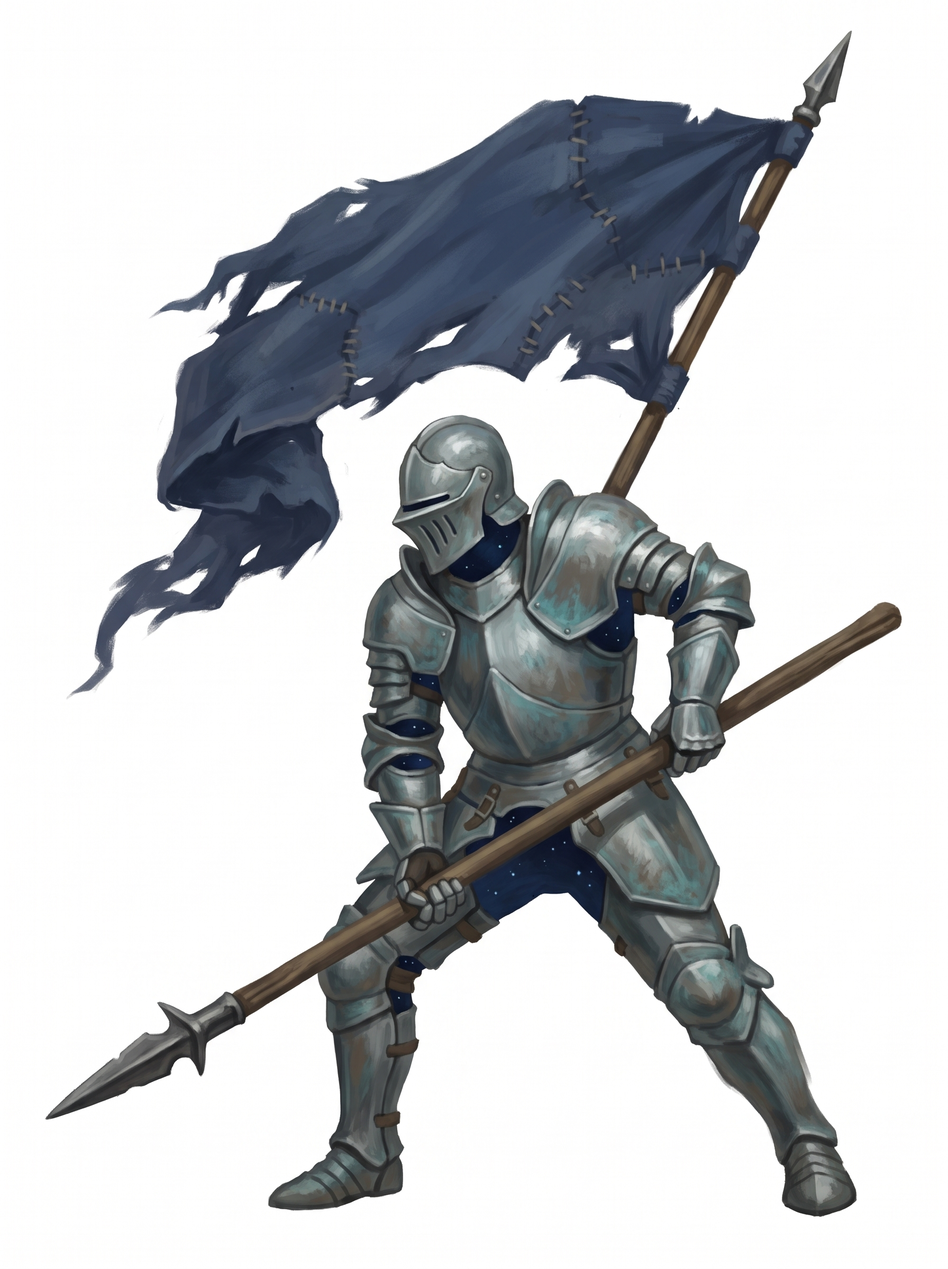
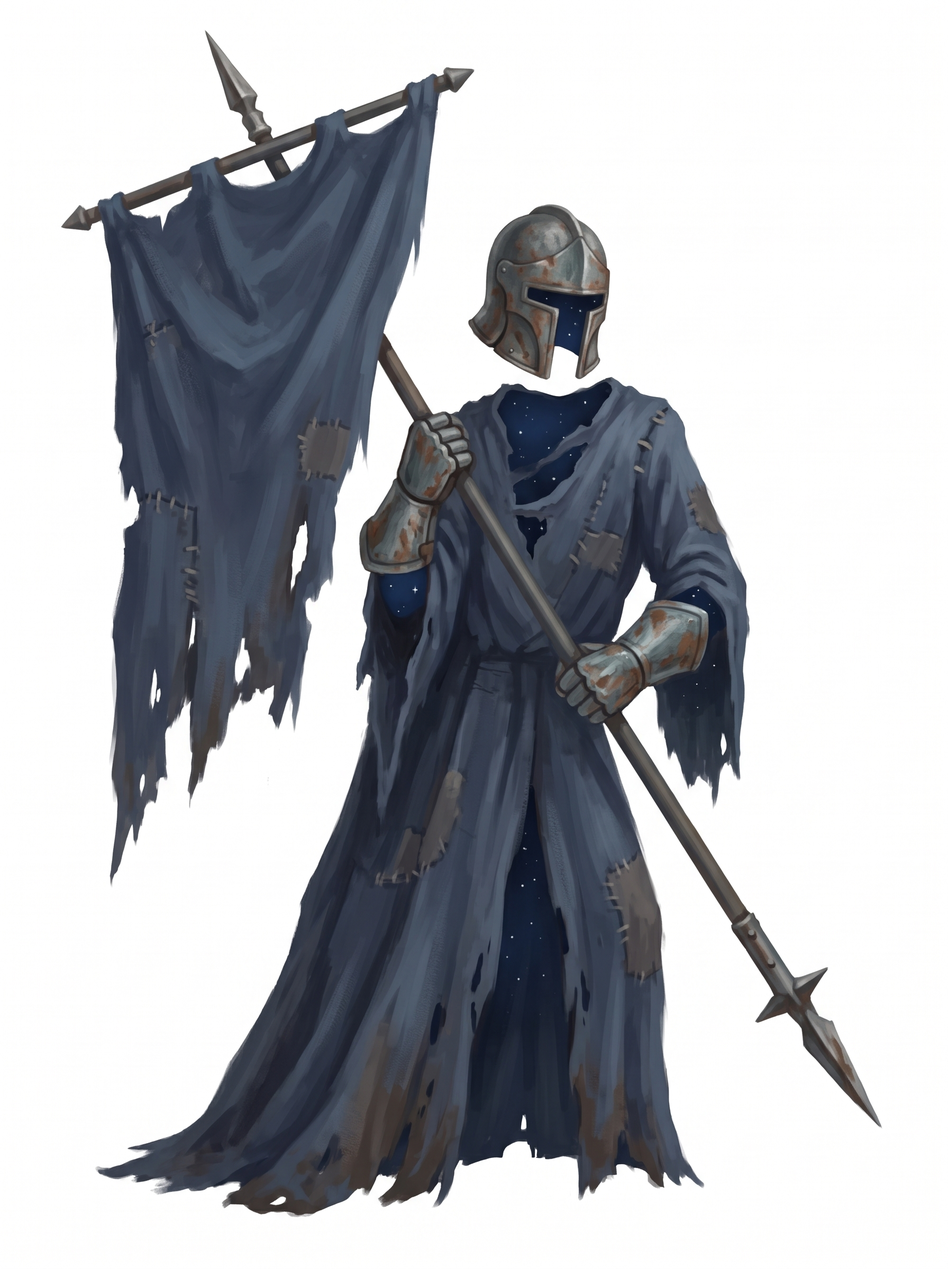
3장 몬스터 6마리를 다시 뽑고 우두머리 방 배경과 땅 띠, 배치 시안을 만들었다
Claude-Session: https://claude.ai/code/session_019ctizXgKMq2Zc4rqnxPXRD

diff --git a/잊혀진 기사 키우기 세계관/몬스터 도감.md b/잊혀진 기사 키우기 세계관/몬스터 도감.md
@@ -148,22 +148,22 @@
 - 수습기사들은 "그만, 잘했다"는 말을 듣지 못해 아직도 같은 동작을 한다.
 
 ### 몬스터
-물건을 지닌 짐승은 셋(올빼미, 너구리, 오소리). 사람 꼴은 8~10번의 빈 갑옷뿐이고, 살갗은 그리지 않는다.
+물건을 지닌 짐승은 다섯(산토끼, 올빼미, 두루미, 오소리, 스라소니). 사람 꼴은 8~10번의 빈 갑옷뿐이고, 살갗은 그리지 않는다.
 
 | 스테이지 | 몬스터 | 맡는 일 | 그림의 포인트 | 도감 글 | 전리품 | 전리품 설명 | 주된 색 |
 |---|---|---|---|---|---|---|---|
-| 3-1 | 짚 인형 | 약한 떼 | 가슴의 붉은 헝겊 심장 | 가장 약하다. 목검 자국투성이인 훈련용 인형이 말뚝째 걸어 나온다. | 헝겊 심장 | 인형 가슴에 누가 꿰매 준 붉은 헝겊 조각. 날마다 맞는 것이 안쓰러워 달아 주었다고 한다. | 바랜 짚색, 붉은 헝겊 |
+| 3-1 | 창 든 산토끼 | 약한 떼 | 옆구리에 낀 작은 깃발 창 | 가장 약하다. 장난감 창을 끼고 제 몸보다 큰 것에게 곧장 달려든다. | 장난감 창 | 수습기사들이 쉬는 시간에 깎아 놀던 것. 끝이 뭉툭하다. 다치지 말라고 누가 갈아 주었다. | 잿빛 갈색 털 |
 | 3-2 | 투구 속 올빼미 | 나는 것 | 뒤집어쓴 낡은 투구 | 주인 없는 투구에 둥지를 틀었다. 투구째로 소리 없이 날아와 덮친다. | 작은 투구 | 안쪽에 솜을 덧대 놓았다. 머리가 작은 아이에게 물려준 투구였다. | 잿빛 깃, 녹슨 쇠 |
-| 3-3 | 깃 문 너구리 | 빠른 것 | 입에 문 크고 붉은 투구 깃 | 반짝이는 것을 훔쳐 달아났다가 돌아와 덤빈다. | 붉은 투구 깃 | 첫 시합 날 달아 주려고 아껴 둔 깃. 시합은 열리지 않았다. | 잿빛 갈색 털, 붉은 깃 |
+| 3-3 | 보초 서는 두루미 | 한 방 | 등에 걸친 바랜 보초 망토 | 한 발로 꼿꼿이 서서 문을 지킨다. 긴 부리로 창처럼 찌른다. | 보초의 망토 | 밤새 문을 지키던 보초에게 누가 덮어 주고 간 망토. | 잿빛 깃, 바랜 남색 망토 |
 | 3-4 | 방패 진 오소리 | 단단한 것 | 등에 진 둥근 나무 방패 | 작지만 물러서지 않는다. 등을 돌려 방패로 막는다. | 작은 나무 방패 | 뒷면에 어른의 손으로 새긴 자국이 있다. 겁나면 이 뒤에 숨어도 된다는 뜻이었다. | 검은색과 흰 줄, 나무색 |
 | 3-5 | 주인 잃은 목마 | 미는 것 | 바퀴 달린 나무 말의 몸 | 훈련용 나무 말이 스스로 달려든다. 들이받아 밀어낸다. | 부러진 고삐 | 손잡이에 작은 손자국이 패어 있다. 처음 말에 오르던 날, 무서워서 꼭 쥐었던 자리다. | 낡은 나무색 |
-| 3-6 | 걷는 과녁 | 멀리서 | 화살이 가득 박힌 둥근 짚 과녁 | 세 발 받침으로 걷는 활터의 과녁. 제 몸에 박힌 화살을 뽑아 쏜다. | 빗나간 화살 | 한가운데 맞은 화살은 하나도 없다. 그래도 전부 누군가 끝까지 쏜 화살이다. | 바랜 붉은색과 흰색 |
-| 3-7 | 삵 | 빠르고 센 것 | 없음 | 어둠 속에서 낮게 다가온다. 훈련장에서 가장 빠르고 매섭다. | 닳은 가죽 장갑 | 삵이 물고 다니던 장갑 한 짝. 손가락 끝이 다 닳았다. 밤마다 혼자 남아 연습하던 사람의 것이다. | 얼룩진 황갈색 |
-| 3-8 | 그림자 수습기사 | 재주: 같은 동작을 연달아 친다 | 제 머리보다 큰 투구와 목검 | 몸에 맞지 않는 갑옷을 입은 작은 그림자. 같은 동작만 되풀이한다. | 닳은 목검 | 손잡이에 감은 천을 몇 번이나 갈아 감았다. 맨 안쪽 천은 꽃무늬다. 누군가의 앞치마였다. | 은빛 갑옷, 밤하늘 속 |
-| 3-9 | 그림자 기수 | 재주: 둘레의 그림자를 세게 한다 | 찢어진 큰 깃발 | 깃발을 든 빈 갑옷. 깃대를 창처럼 쓴다. 깃발이 서 있는 동안 다른 그림자들이 물러서지 않는다. | 찢어진 깃발 | 찢어진 자리를 서툰 솜씨로 기웠다. 깃발을 든 사람은 끝까지 내려놓지 않았다. | 은빛 갑옷, 바랜 남색 깃발 |
+| 3-6 | 돌아가는 짚 인형 | 재주: 맞으면 돌아서 되받아친다 | 가슴의 붉은 헝겊 심장 | 마상 훈련용 짚 인형. 한 팔에 방패, 한 팔에 모래주머니가 달려 있다. | 헝겊 심장 | 인형 가슴에 누가 꿰매 준 붉은 헝겊 조각. 날마다 맞는 것이 안쓰러워 달아 주었다고 한다. | 바랜 짚색, 붉은 헝겊 |
+| 3-7 | 스라소니 | 빠르고 센 것 | 등에 걸친 바랜 시합 덮개 | 어둠 속에서 낮게 다가온다. 훈련장에서 가장 빠르고 매섭다. | 닳은 가죽 장갑 | 스라소니가 물고 다니던 장갑 한 짝. 손가락 끝이 다 닳았다. 밤마다 혼자 남아 연습하던 사람의 것이다. | 옅은 잿빛 털, 바랜 남색 천 |
+| 3-8 | 그림자 수습기사 | 재주: 같은 동작을 연달아 친다 | 양동이 같은 큰 투구 | 몸에 맞지 않는 물려받은 갑옷을 입은 작은 그림자. 같은 동작만 되풀이한다. | 닳은 목검 | 손잡이에 감은 천을 몇 번이나 갈아 감았다. 맨 안쪽 천은 꽃무늬다. 누군가의 앞치마였다. | 은빛 갑옷, 밤하늘 속 |
+| 3-9 | 그림자 기수 | 재주: 둘레의 그림자를 세게 한다 | 찢어진 큰 깃발과 깃발 천으로 된 몸 | 투구와 손 장갑뿐이고, 몸은 깃발 천이다. 깃대를 창처럼 쓴다. 깃발이 서 있는 동안 다른 그림자들이 물러서지 않는다. | 찢어진 깃발 | 찢어진 자리를 서툰 솜씨로 기웠다. 깃발을 든 사람은 끝까지 내려놓지 않았다. | 바랜 남색 천, 은빛 투구 |
 | 3-10 우두머리 | 마지막 그림자 기사 | 우두머리 | 말과 녹으로 붙은 몸 | 왕의 곁을 지키던 기사의 그림자. 그 밤부터 한 번도 말에서 내리지 않았다. 창술에 빈틈이 없다. | 별빛 박힌 창끝 | 창날에 밤하늘이 비친다. 겨눠야 할 때 겨누지 못한 창이다. | 푸른 녹이 슨 은빛, 밤하늘 |
 
-- 바꾼 것: 별눈 삵 → 삵(포인트 없음, 3-7로), 3-3에 깃 문 너구리, 과녁 방패병 → 걷는 과녁(사람 꼴을 뺌), 빈 갑옷은 뺌(그림자 기사 넷과 겹친다).
+- 2026-11-21에 다시 짰다. 결은 "제 몸보다 큰 것에 덤비는 용기"다. 잡몹은 기사를 흉내 내는 작은 것들이고, 그림은 1~2장보다 조금 더 정교하고 근엄하게 그린다. 뺀 것: 깃 문 너구리, 삵, 걷는 과녁, 빈 갑옷.
 - 빈 갑옷의 전리품이던 "갑옷 속 쪽지"는 6장 잿빛 기사단으로 옮긴다.
 - 이 장의 펫: 아기 올빼미, 오소리.
 
